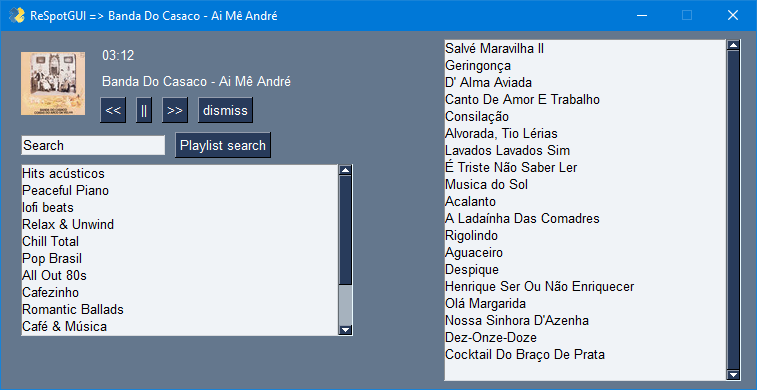
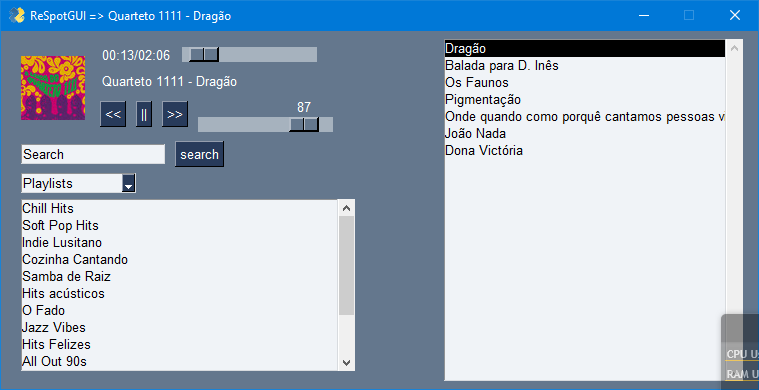
Now listens to presses on media keys

Changed region(s): [[0.0304, 0.1231, 0.4861, 0.9538], [0.5773, 0.0923, 1.0, 1.0], [0.0608, 0.0308, 0.3646, 0.0615]]

diff --git a/respot/gui.py b/respot/gui.py
@@ -10,6 +10,8 @@ import time
 import pickle
 from queue import Queue
 import dotenv
+from pycaw.pycaw import AudioUtilities
+import pynput
 
 APP_NAME = "ReSpotGUI"
 RESPOT_BASE_URL="http://localhost:24879"
@@ -40,6 +42,8 @@ class WsThread(threading.Thread):
         if event == 'trackSeeked':
             #self.track_timer.reset()
             self.track_timer.set_elapsed(float(jst['trackTime']) / 1000.0)
+        elif event == 'volumeChanged':
+             self.window['slider_volume'].update(int(jst['value'] * 100))
         elif event == 'trackChanged':
             global first_playing
             # if first_playing:
@@ -135,19 +139,42 @@ class TimerThread(threading.Thread):
             if self.terminate:
                 break
 
+class MediaKeysListener(pynput.keyboard.Listener):
+    def __init__(self,window):
+        super().__init__(on_release=self.on_press)
+        self.window = window
+
+    def listen(self):
+        self.start()
+    
+    def end(self):
+        self.stop()
+        self.join()
+
+    def on_press(self,key):
+        #print(key)
+        if key == pynput.keyboard.Key.media_play_pause:
+            self.window['play_pause'].click()
+        elif key == pynput.keyboard.Key.media_next:
+            self.window['next'].click()
+        elif key == pynput.keyboard.Key.media_previous:
+            self.window['prev'].click()
+
 def set_volume(volume): # 0 - 1
     volume_to_set = float(volume) * 65536.0
     #print(f"Setting volume to {volume_to_set}")
     requests.post(RESPOT_BASE_URL + "/player/set-volume",{'volume': int(volume_to_set)})
     return volume 
 
-def get_volume():
-    from pycaw.pycaw import AudioUtilities
+def get_java_audio_volume():
     sessions = AudioUtilities.GetAllSessions()
     for session in sessions:
         if session.Process and session.Process.name() == 'java.exe':
             return session.SimpleAudioVolume.GetMasterVolume()
-    return None 
+    return 0.5 
+
+def touch_initial_volume():
+    requests.post(RESPOT_BASE_URL + '/player/set-volume',{'step': -1 })
             
 def album_image(album):
     album_name = album['name']
@@ -314,15 +341,16 @@ def main():
         already_elapsed = 0.0
         total_track_time = 0.0
        
-
-
     controls_layout = [
-        [sg.Text(format_time_elapsed(already_elapsed),key='currently'),sg.Slider(range=(0,100),default_value=get_volume()*100.0,orientation='h',size=(15,15),enable_events=True,key='slider_volume')],
+        [sg.Text(format_time_elapsed(already_elapsed),key='currently'), 
+         sg.Slider(range=(0, total_track_time),disable_number_display=True, orientation='h', size=(15, 15), default_value=already_elapsed, 
+            key='slider', enable_events=True)],
         [sg.Text(playing_label,size=(40, 1), key='-OUTPUT-')] ,
         [sg.Button('<<', key='prev'), 
          sg.Button('||' if playing else '▶',key='play_pause'),
          sg.Button('>>', key='next'),
-         sg.Slider(range=(0, total_track_time),disable_number_display=True, orientation='h', size=(15, 15), default_value=already_elapsed, key='slider', enable_events=True)
+         sg.Slider(range=(0,100),default_value=50,orientation='h',size=(15,15),enable_events=True,
+            key='slider_volume')
         ],
     ]
     # Define the window's contents
@@ -366,10 +394,17 @@ def main():
     #window.un_hide()
     #window.set_alpha(1)
 
+    
     if playing:
         timerthread.start()
  
     wsthread.start()
+
+    keys_listener = MediaKeysListener(window)
+    keys_listener.start()
+
+    #set initial volume
+    threading.Thread(target=touch_initial_volume).start()
 
     while True:                               
     # Display and interact with the Window
@@ -457,7 +492,8 @@ def main():
     window.close()
     wsthread.get_ws().close()
     timerthread.join()
-    wsthread.join()                               
+    wsthread.join()
+    keys_listener.end()                              
     
 
 if __name__ == "__main__":

diff --git a/setup.py b/setup.py
@@ -70,5 +70,6 @@ if __name__ == '__main__':
         },
         include_package_data=True,
         package_data={'respot':['img/no-music.png']},
-        install_requires=['PySimpleGUI', 'websocket-client', 'requests', 'Pillow','python-dotenv']
+#        install_requires=['PySimpleGUI', 'websocket-client', 'requests', 'Pillow','python-dotenv','pycaw']
+        install_requires=open("requirements.txt").read().splitlines()
     )

diff --git a/CHANGELOG.md b/CHANGELOG.md
@@ -1,5 +1,4 @@
-#### 0.1.46 (2022-09-21)
-
+- Added slider for volume
 - added total time in timer and made improvements
 - Implemented search for playlists and listbox with active playlist
 - Minor changes to the gui. Removed thread timers
